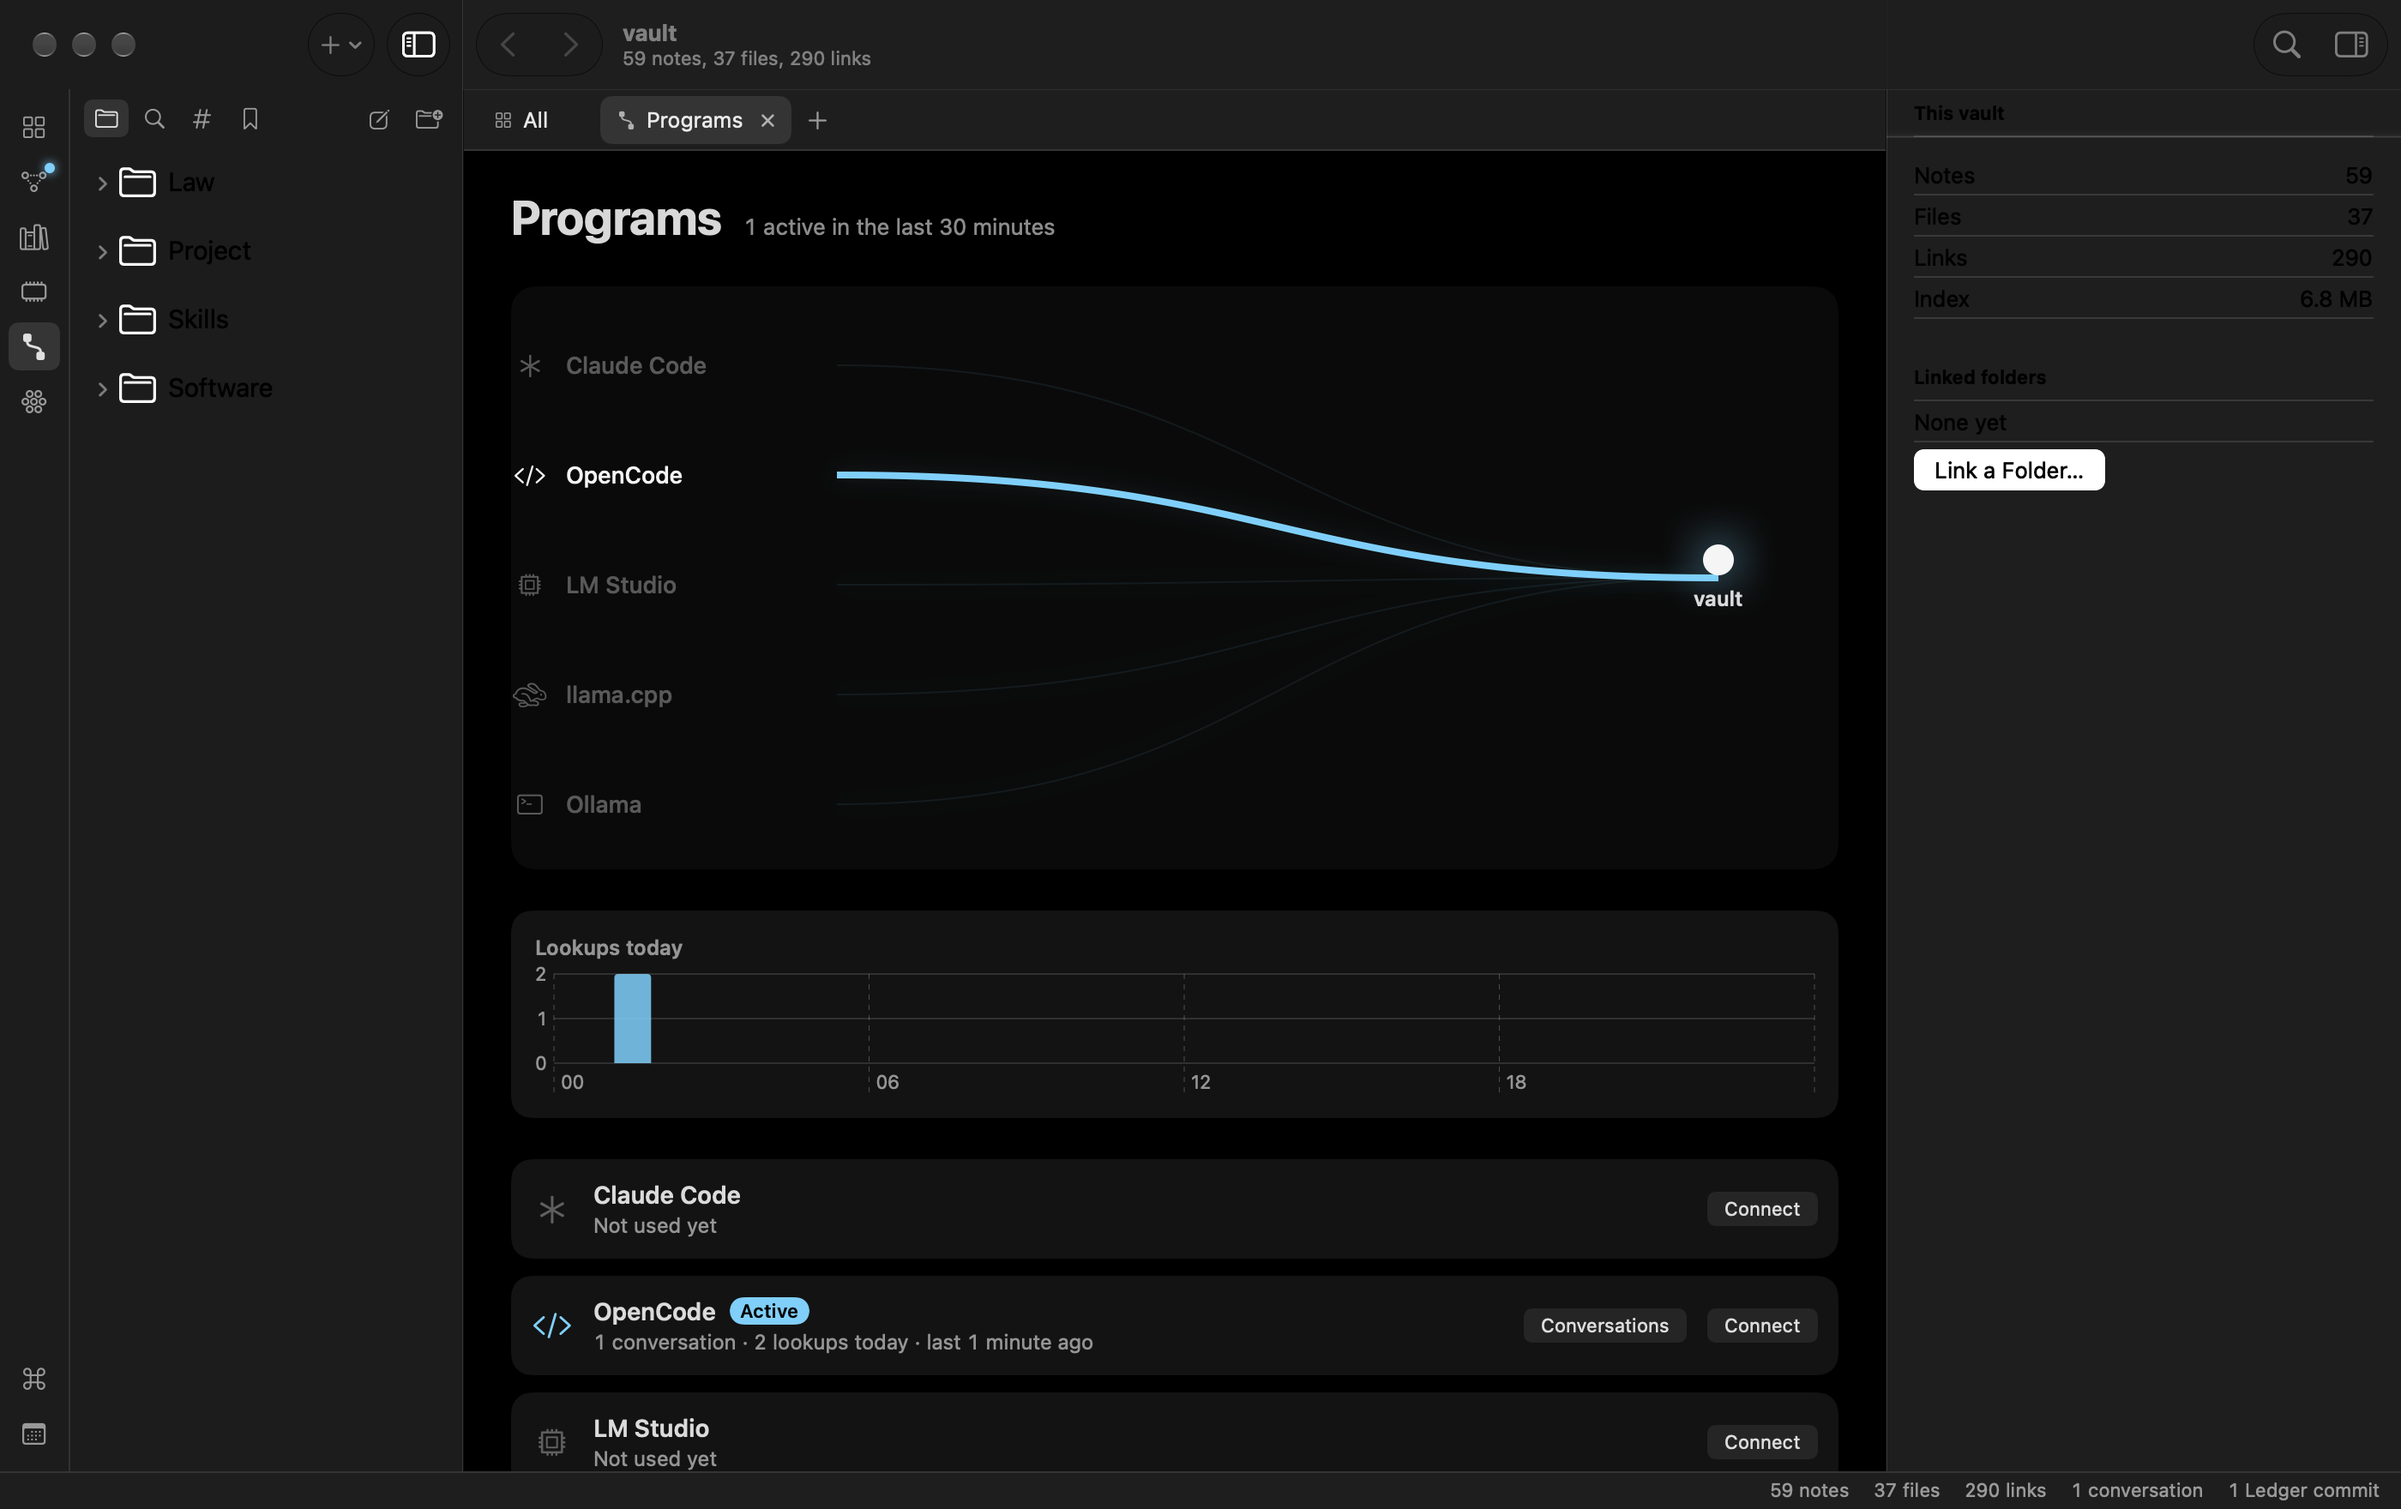
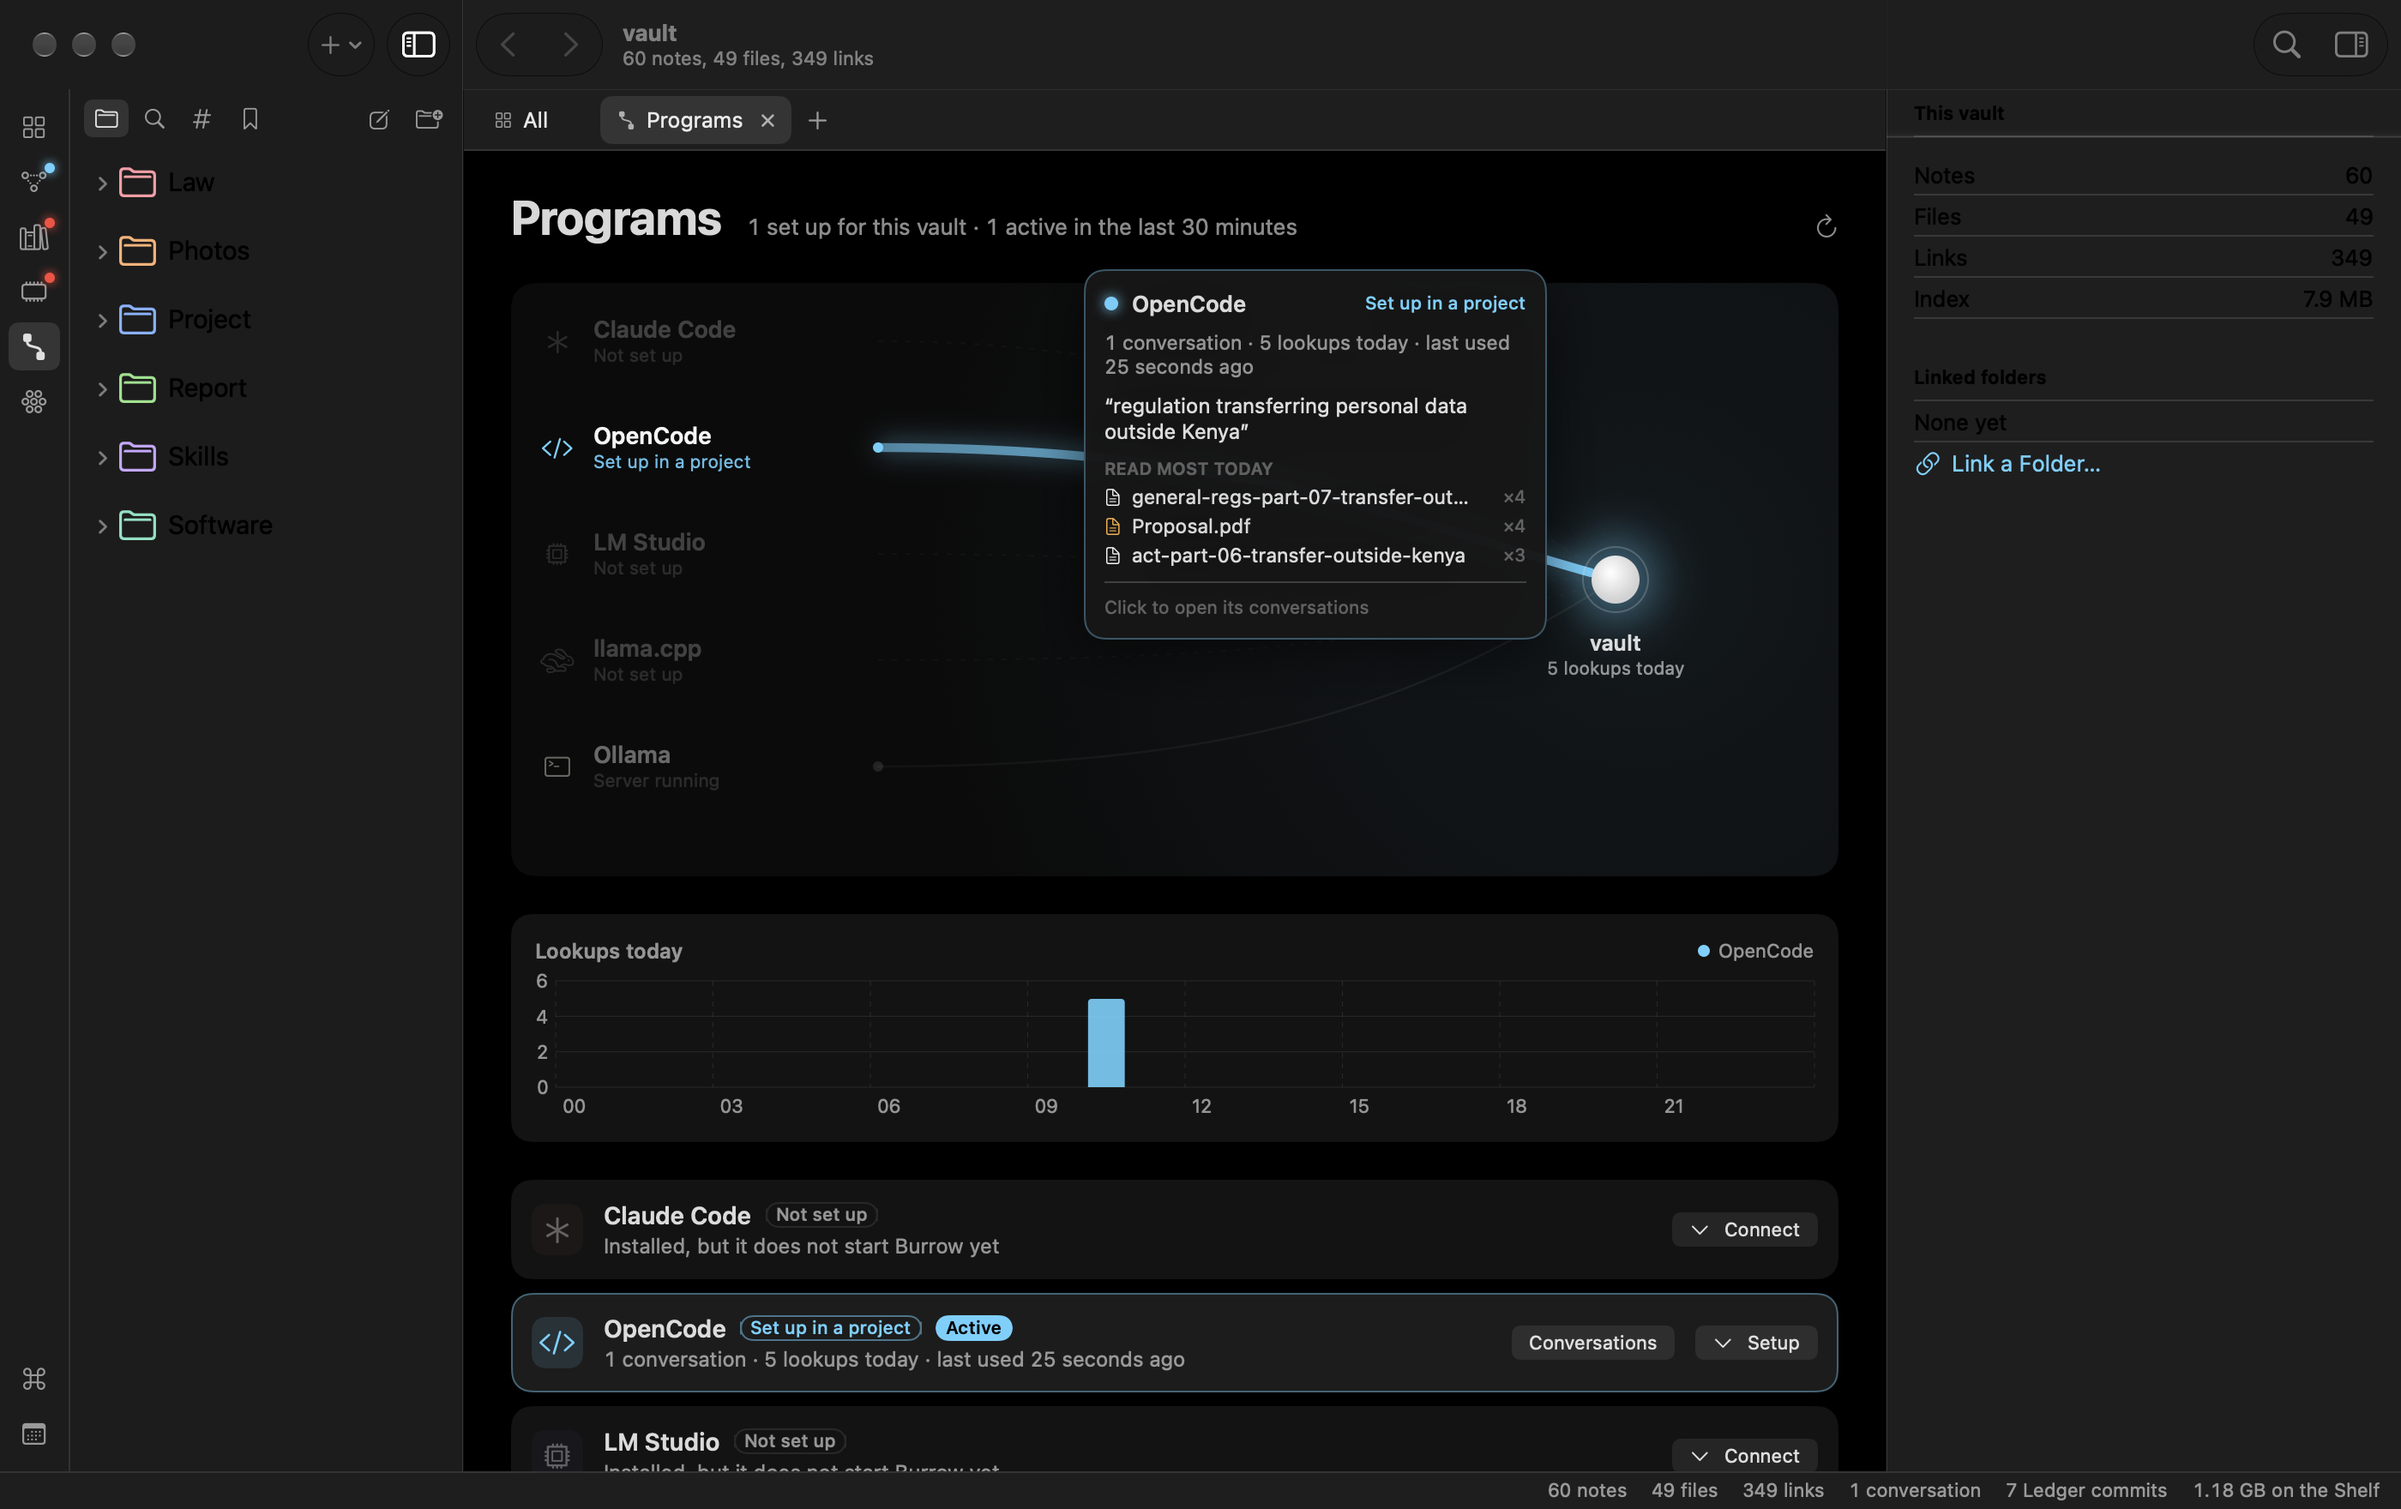
Report: Figure 5.7 from today's real OpenCode run on the redrawn Programs page
Three questions to Gemma 4 12B and Qwen3 4B through OpenCode over MCP, on a copy of the evaluation vault; the text and user guide describe hover, click, connection status and Add for Me.

diff --git a/docs/report/chapters4/5-implementation.md b/docs/report/chapters4/5-implementation.md
@@ -107,9 +107,9 @@ In the desktop app the answer comes from the program the person already uses, an
 
 !fig figures/screens4/app-session.png | Figure 5.6: A conversation Gemma 4 12B held with the vault through OpenCode, with each lookup and the files it read | 6.2
 
-Figure 5.7 shows the Programs page, which answers the Sprint II request to see model activity. Each program that can use the vault is drawn with a line to it that brightens with use, and below are the lookups of the day and a Connect button for each program.
+Figure 5.7 shows the Programs page, which answers the Sprint II request to see model activity. Each program that can use the vault is drawn as a line running into it, bright when the program has read from the vault that day and dashed when it is not set up. The page reads each program's own settings to say whether it starts Burrow on this vault. Pointing at a line shows that program's last question and the files it read most, and clicking it opens its conversations; below are the lookups of the day and the setup for each program.
 
-!fig figures/screens4/app-programs.png | Figure 5.7: The programs that use the vault, and how much each one has read from it today | 6.2
+!fig figures/screens4/app-programs.png | Figure 5.7: The programs that use the vault, with the files OpenCode read most today | 6.2
 
 On the command line every file and line in the answer is compared with what the model was shown, and the model is asked once more if a citation was not among them, which implements FR-08. Figure 5.8 shows what happens when the excerpts do not hold the answer. The question is about Ugandan law, which the vault does not contain. The engine still searched, because the closest files are about data protection, and the model said that it did not know from what it was shown, while the lines below list the nine files it read.
 

diff --git a/docs/report/chapters4/8-appendices.md b/docs/report/chapters4/8-appendices.md
@@ -121,7 +121,7 @@ i) Choose a folder as the vault. An existing Obsidian vault works as it is.
 ii) Write notes in the centre pane and link notes with [[. A note's properties are shown as fields above its text, and holding Command over a link previews the note.
 iii) To add code, choose Add, then Link a Folder.
 iv) Open the graph to see how notes link, and search from the sidebar.
-v) Open Programs to connect a model or tool, such as Claude Code, LM Studio or Ollama, through the MCP server. Its conversations then appear under Conversations, and what it understood appears in the Ledger.
+v) Open Programs to connect a model or tool, such as Claude Code, LM Studio or Ollama, through the MCP server: press Connect, then Copy, or Add for Me to write the setting into the program. Its conversations then appear under Conversations as it works, and what it understood appears in the Ledger.
 
 **Using the terminal.**
 
